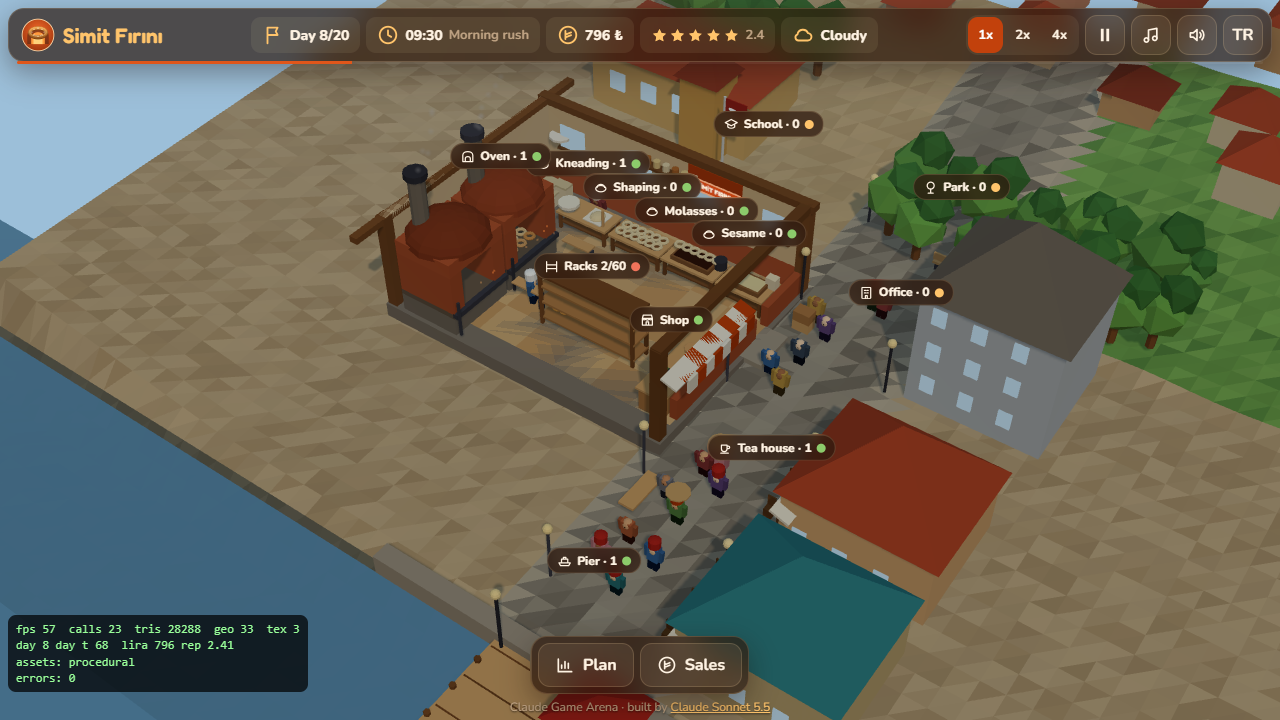
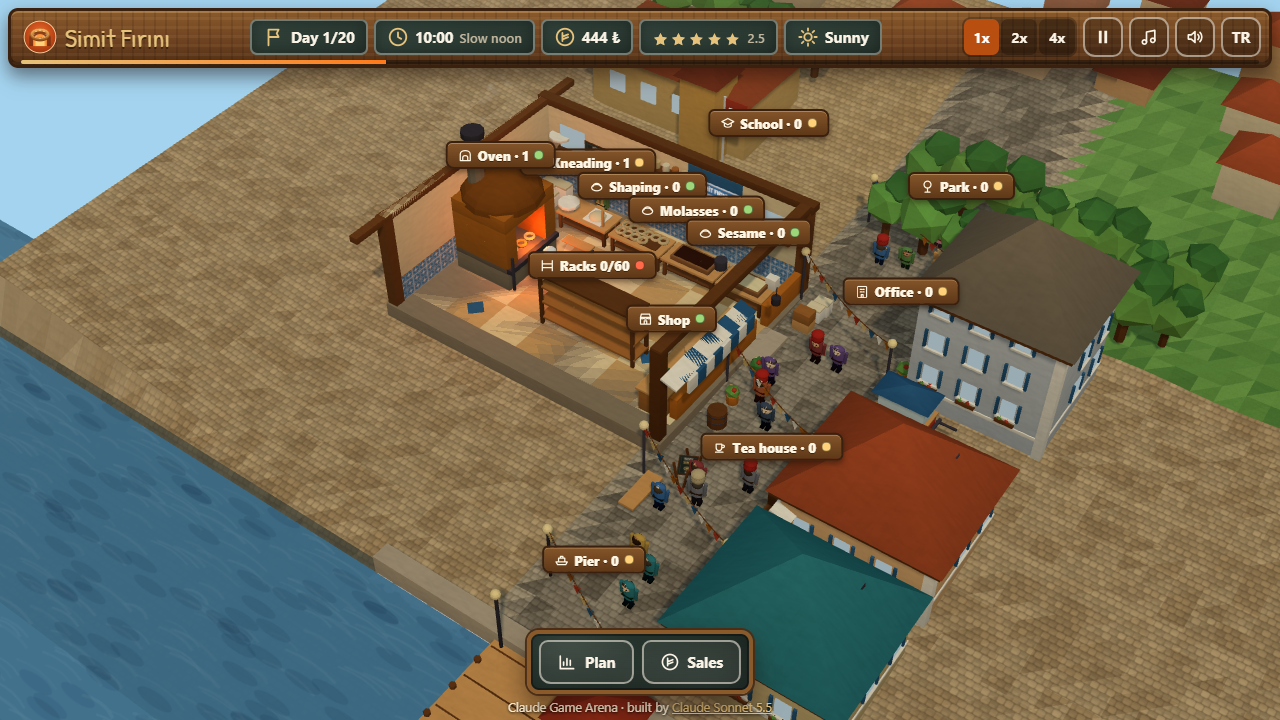
docs: redesign screenshots, before/after strip and README section
Claude-Session: https://claude.ai/code/session_014vMYwwQ3htV8WjCni8q7av

diff --git a/README.md b/README.md
@@ -103,13 +103,24 @@ The live state is on `window.simitfirini`.
     <td width="33%"><img src="docs/plan.png" alt="Day plan, staff tab"><br><sub>Day plan: staff</sub></td>
   </tr>
   <tr>
-    <td><img src="docs/panels.png" alt="Sales panel and pier demand chart"><br><sub>Sales and pier demand</sub></td>
+    <td><img src="docs/panels.png" alt="Pause menu on a chalkboard"><br><sub>Pause menu</sub></td>
     <td><img src="docs/summary.png" alt="End of day summary"><br><sub>End of day summary</sub></td>
     <td><img src="docs/win.png" alt="Win screen: the most famous bakery on the street"><br><sub>The most famous bakery on the street</sub></td>
   </tr>
 </table>
 
 <p align="center"><img src="docs/phone.png" width="300" alt="Simit Fırını on a phone"><br><sub>On a phone</sub></p>
+
+## Redesign (2026-11)
+
+**Art direction:** a hand-painted 2.5D bakery. Palette: crust `#B5651D`, sesame `#E6C27A`, oven glow `#FF7A1A`, flour white `#FAF3E6`, tiled blue `#2C5F8A`. Wood-fired oven glow with flicker, steam and flour dust motes; menus are chalkboards, the day summary is a baker-paper receipt.
+
+![Before and after](docs/redesign-before-after.png)
+
+- **Visual:** painted palette and warm lighting, cobblestone street and tiled bakery floor textures, props and dressed buildings, characters with idle bobs, oven flame, steam and flour FX.
+- **UI:** chalkboard modals with a self-hosted chalk font, title bunting, wooden top bar, receipt-style summary; phone portrait and landscape layouts checked.
+- **Kept:** all rules, recipes, balance numbers, saves, `?auto` bot, flags and i18n are unchanged.
+- **Measured** (headless Chrome, Intel UHD 620, 1280x720): 60 fps in play before and after; draw calls 20 -> 28; triangles 25.6k -> 51.6k; `?auto` bot wins on day 17 with 0 JS errors, with and without `?noassets`.
 
 ## Balance
 
